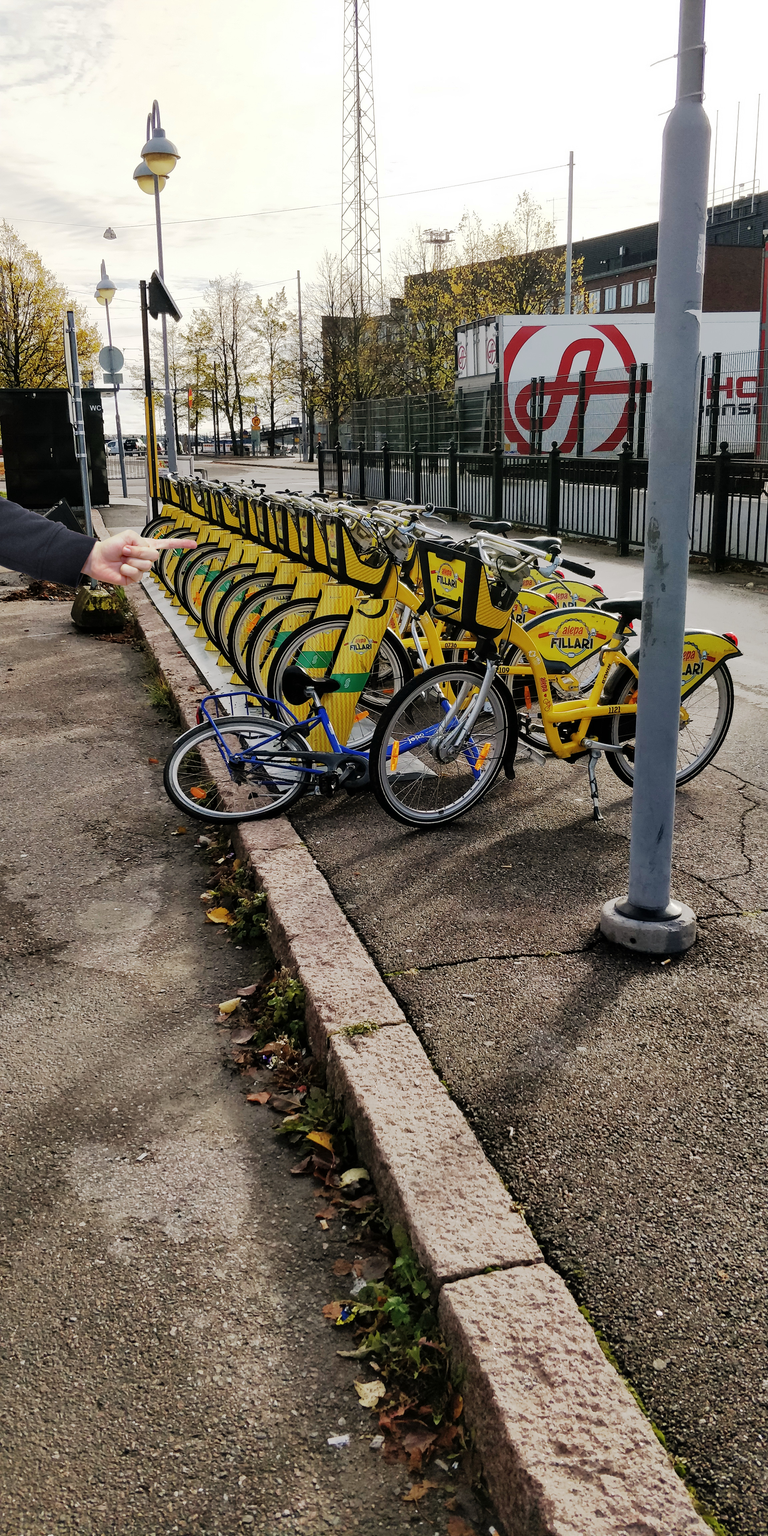
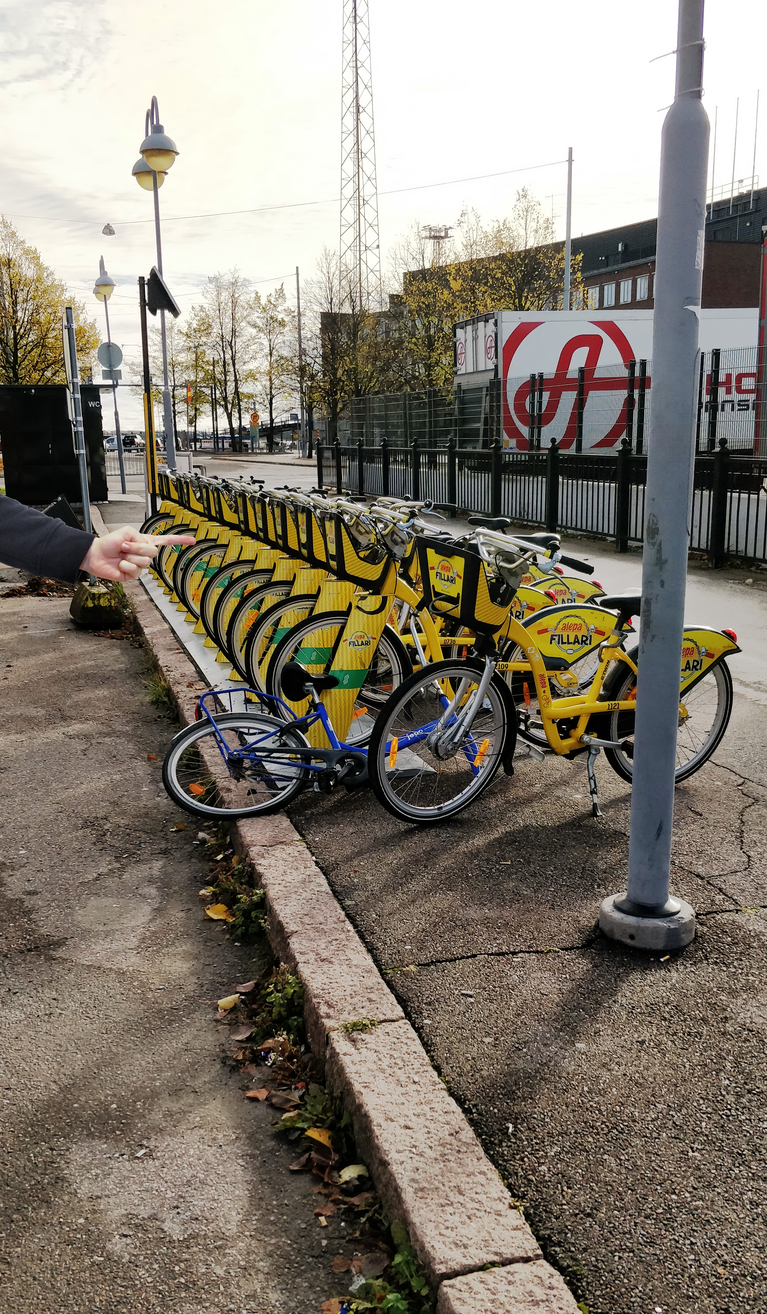
commit

diff --git a/index/esittely.html b/index/esittely.html
@@ -30,7 +30,7 @@
         <a id="index.html" href="index.html"><b>Karttasovellus</b></a>
     </div>
 </div>
-    <img id="omakuva" src="../kuvat/pyörä2.jpg" width="350px" height="700px">
+    <img id="omakuva" src="../kuvat/pyörä2.jpg" width="350px" height="600px">
     <video id="video" width="350" height="197" controls>
         <source src="../Esittelyvideo.mp4" type="video/mp4">
         <source src="../Esittelyvideo.ogv" type="video/ogv">
